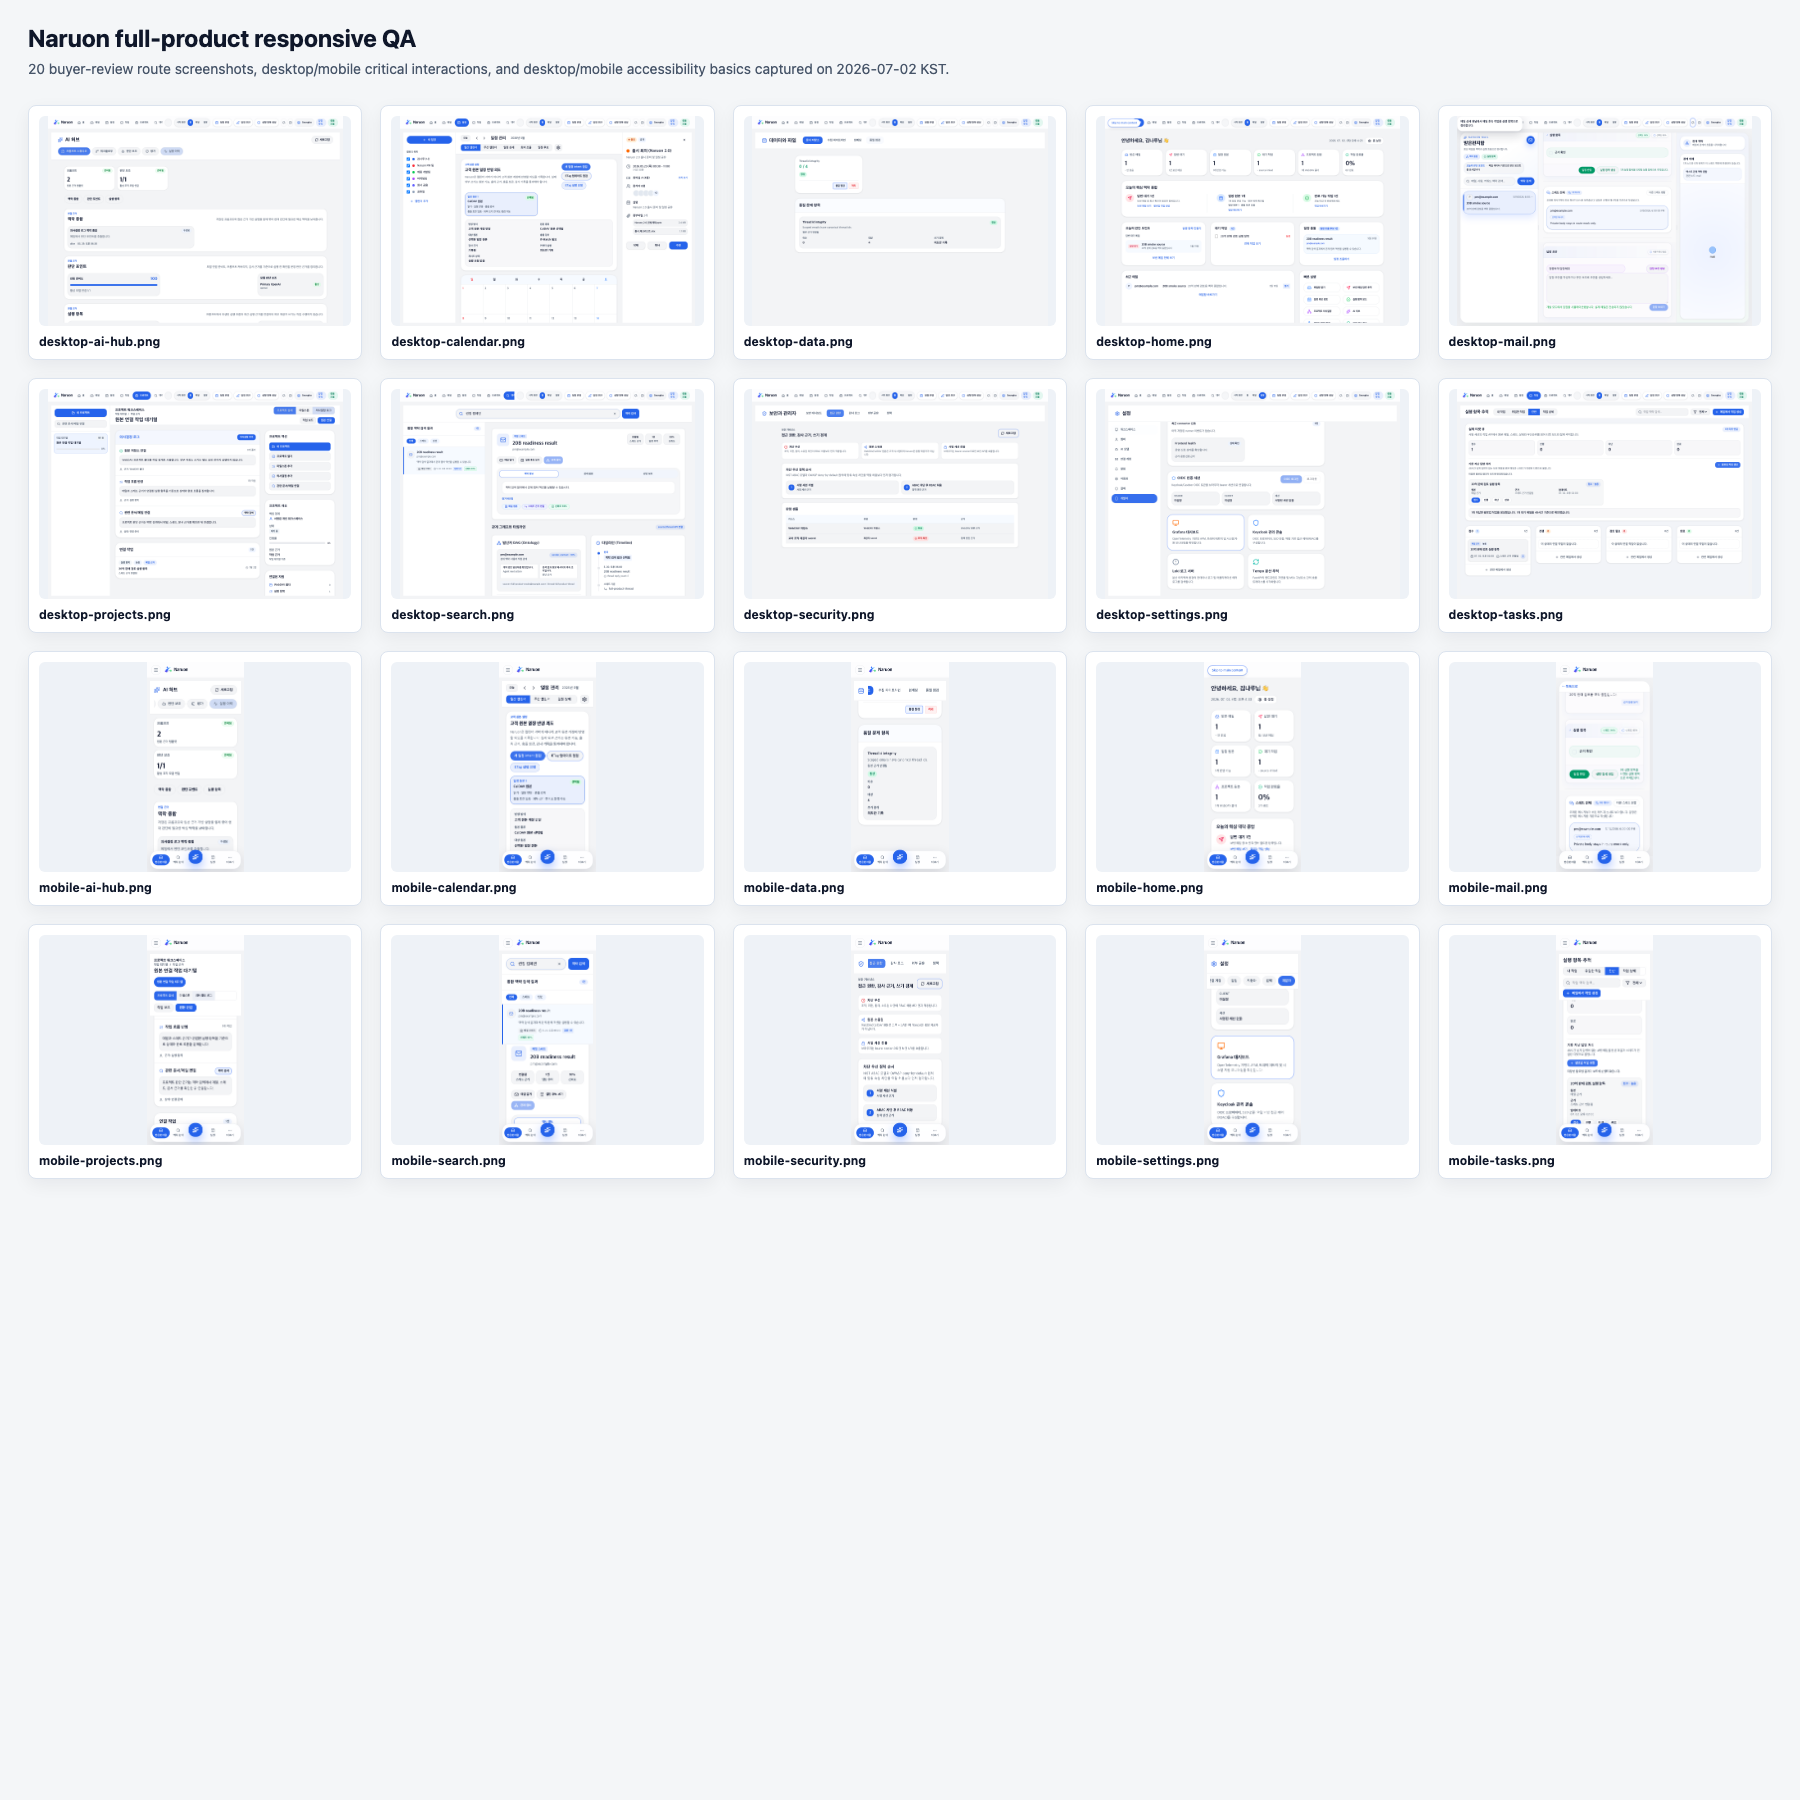
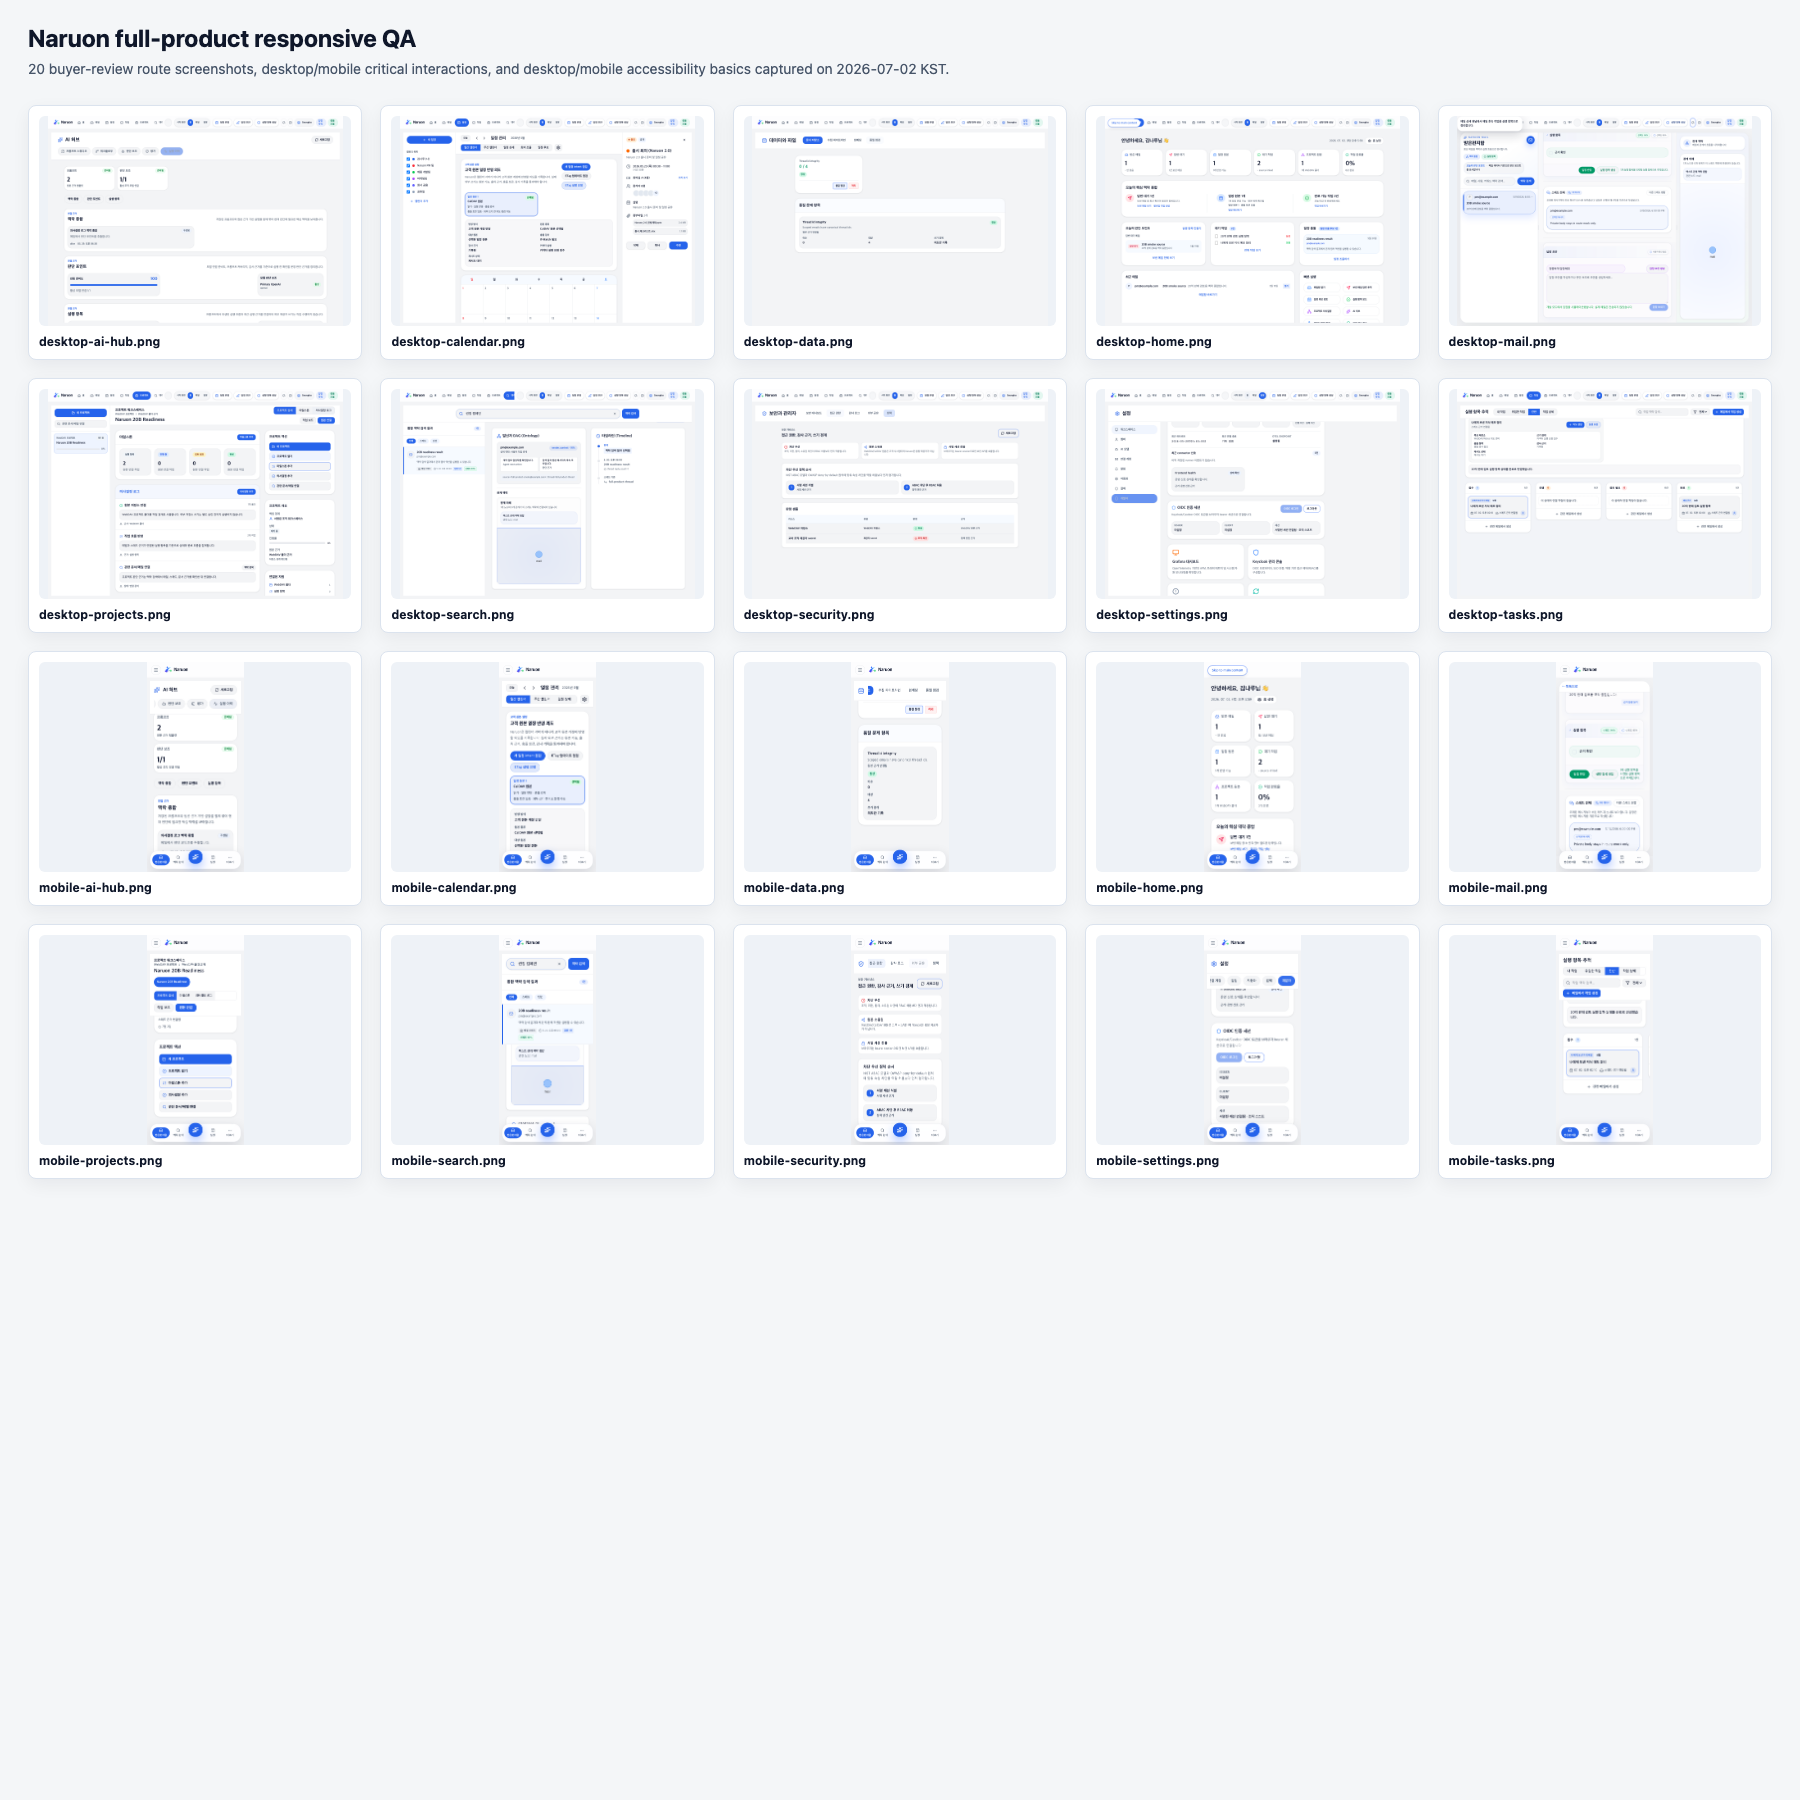
Expand workflow-state full product smoke

diff --git a/docs/superpowers/reports/2026-07-02-naruon-20b-responsive-product-design-qa.md b/docs/superpowers/reports/2026-07-02-naruon-20b-responsive-product-design-qa.md
@@ -41,7 +41,7 @@ Result:
 Naruon full-product route smoke passed.
 Routes: /, /mail, /search, /calendar, /tasks, /projects, /data, /ai-hub, /security, /settings
 Viewports: desktop(1440x1024), mobile(390x844)
-Critical interactions: desktop:mail:select-message, desktop:mail:open-source-drawer, desktop:mail:generate-reply-draft, desktop:mail:send-simulated-reply, desktop:mail:create-source-linked-task, desktop:search:select-result, desktop:search:capture-sender-relationship, desktop:calendar:create-writeback-intent, desktop:tasks:create-reply-sla-followup, desktop:projects:open-decision-log, desktop:data:create-embedding-regeneration-intent, desktop:data:open-quality-checks, desktop:ai-hub:open-run-history, desktop:security:open-sharing-review, desktop:security:open-policy-order, desktop:settings:switch-ai-model-tab, desktop:settings:select-calendar-startup-view, desktop:settings:rotate-connector-token, mobile:mail:select-message, mobile:mail:open-source-drawer, mobile:mail:generate-reply-draft, mobile:mail:send-simulated-reply, mobile:mail:create-source-linked-task, mobile:search:select-result, mobile:search:capture-sender-relationship, mobile:calendar:create-writeback-intent, mobile:tasks:create-reply-sla-followup, mobile:projects:open-decision-log, mobile:data:create-embedding-regeneration-intent, mobile:data:open-quality-checks, mobile:ai-hub:open-run-history, mobile:security:open-sharing-review, mobile:security:open-policy-order, mobile:settings:switch-ai-model-tab, mobile:settings:select-calendar-startup-view, mobile:settings:rotate-connector-token
+Critical interactions: desktop:mail:select-message, desktop:mail:open-source-drawer, desktop:mail:generate-reply-draft, desktop:mail:send-simulated-reply, desktop:mail:create-source-linked-task, desktop:search:select-result, desktop:search:open-source-evidence-tab, desktop:search:open-decision-assist-tab, desktop:search:capture-sender-relationship, desktop:search:verify-captured-relationship-state, desktop:calendar:create-writeback-intent, desktop:calendar:verify-etag-update-intent, desktop:calendar:request-provider-execution, desktop:calendar:verify-provider-retry-state, desktop:tasks:create-reply-sla-followup, desktop:tasks:complete-source-linked-task, desktop:tasks:create-knowledge-webdav-intent, desktop:tasks:request-knowledge-provider-execution, desktop:tasks:verify-knowledge-retry-state, desktop:projects:open-decision-log, desktop:projects:reopen-project-detail, desktop:projects:verify-source-boundary, desktop:data:create-embedding-regeneration-intent, desktop:data:create-hwp-conversion-intent, desktop:data:request-webdav-materialization, desktop:data:create-webdav-writeback-intent, desktop:data:create-unique-thread-intent, desktop:data:open-quality-checks, desktop:ai-hub:open-workflow-tab, desktop:ai-hub:open-evaluation-tab, desktop:ai-hub:open-run-history-from-evidence, desktop:ai-hub:open-run-history, desktop:security:open-sharing-review, desktop:security:verify-external-write-block, desktop:security:open-policy-order, desktop:security:verify-deny-sample, desktop:settings:switch-ai-model-tab, desktop:settings:save-embedding-model, desktop:settings:save-account-config, desktop:settings:select-calendar-startup-view, desktop:settings:rotate-connector-token, mobile:mail:select-message, mobile:mail:open-source-drawer, mobile:mail:generate-reply-draft, mobile:mail:send-simulated-reply, mobile:mail:create-source-linked-task, mobile:search:select-result, mobile:search:open-source-evidence-tab, mobile:search:open-decision-assist-tab, mobile:search:capture-sender-relationship, mobile:search:verify-captured-relationship-state, mobile:calendar:create-writeback-intent, mobile:calendar:verify-etag-update-intent, mobile:calendar:request-provider-execution, mobile:calendar:verify-provider-retry-state, mobile:tasks:create-reply-sla-followup, mobile:tasks:complete-source-linked-task, mobile:tasks:create-knowledge-webdav-intent, mobile:tasks:request-knowledge-provider-execution, mobile:tasks:verify-knowledge-retry-state, mobile:projects:open-decision-log, mobile:projects:reopen-project-detail, mobile:projects:verify-source-boundary, mobile:data:create-embedding-regeneration-intent, mobile:data:create-hwp-conversion-intent, mobile:data:request-webdav-materialization, mobile:data:create-webdav-writeback-intent, mobile:data:create-unique-thread-intent, mobile:data:open-quality-checks, mobile:ai-hub:open-workflow-tab, mobile:ai-hub:open-evaluation-tab, mobile:ai-hub:open-run-history-from-evidence, mobile:ai-hub:open-run-history, mobile:security:open-sharing-review, mobile:security:verify-external-write-block, mobile:security:open-policy-order, mobile:security:verify-deny-sample, mobile:settings:switch-ai-model-tab, mobile:settings:save-embedding-model, mobile:settings:save-account-config, mobile:settings:select-calendar-startup-view, mobile:settings:rotate-connector-token
 Accessibility checks: home:a11y-basics, mail:a11y-basics, search:a11y-basics, calendar:a11y-basics, tasks:a11y-basics, projects:a11y-basics, data:a11y-basics, ai-hub:a11y-basics, security:a11y-basics, settings:a11y-basics, home:a11y-basics, mail:a11y-basics, search:a11y-basics, calendar:a11y-basics, tasks:a11y-basics, projects:a11y-basics, data:a11y-basics, ai-hub:a11y-basics, security:a11y-basics, settings:a11y-basics
 ```
 
@@ -49,8 +49,8 @@ Figma placement result:
 
 ```text
 QA Notes board created and verified.
-Contact-sheet upload accepted with response imageHash 9796692ba73fc91175ed7ee4ac97519cd18be7b7.
-Figma node 18:7 verified with image fill hash 9796692ba73fc91175ed7ee4ac97519cd18be7b7 and FIT scale mode.
+Contact-sheet upload accepted with response imageHash e4162ee8c49646e320d48fff2eaf3b948006b0fa.
+Figma node 18:7 verified with image fill hash e4162ee8c49646e320d48fff2eaf3b948006b0fa and FIT scale mode.
 Verification screenshot confirmed the contact sheet and notes are visible inside board node 18:3.
 ```
 
@@ -85,12 +85,12 @@ All desktop screenshots were verified at `1440 x 1024`. All mobile screenshots w
 
 ## Findings
 
-1. Desktop route and broad selected interaction coverage is now stable enough for buyer technical review.
+1. Desktop route and expanded selected workflow-state coverage is now stable enough for buyer technical review.
    - Evidence: all ten IA routes render expected buyer-visible text and produce non-empty screenshots.
-   - Interaction evidence: mail source drawer opening, reply draft generation, simulated send, source task creation, search relationship capture, calendar writeback intent, task reply-SLA escalation, project decision log, data embedding intent and quality checks, AI Hub run history, security sharing/policy tabs, settings tab/startup selection, and connector token rotation all passed.
+   - Interaction evidence: mail source drawer, reply draft, simulated send, source task creation; search evidence/assist tabs and captured relationship state; calendar create/update/provider-execution request and retry state; task completion plus knowledge WebDAV intent and execution request; project decision/detail/source boundary; data embedding, HWP, WebDAV materialization, writeback, unique-thread, and quality checks; AI Hub workflow/evaluation/run history; security external-write block and deny sample; settings embedding save, account save, startup selection, and connector token rotation all passed.
    - Health: pass for route-level and selected interaction smoke.
 
-2. Mobile route and broad selected interaction coverage is now stable enough for buyer technical review.
+2. Mobile route and expanded selected workflow-state coverage is now stable enough for buyer technical review.
    - Evidence: all ten IA routes render expected buyer-visible text and produce mobile screenshots.
    - Interaction evidence: the same selected buyer-critical flows passed on the mobile viewport.
    - Health: pass for route-level and selected interaction smoke.
@@ -106,7 +106,7 @@ All desktop screenshots were verified at `1440 x 1024`. All mobile screenshots w
 
 5. The smoke gate still does not prove full workflow completion.
    - Evidence: the command now checks expected route text, console errors, not-found states, screenshot creation, broad selected desktop/mobile interactions across nine IA routes, and basic automated accessibility checks.
-   - Remaining gap: live provider send, writeback confirmation, graph expansion, permission edits, settings save persistence, and remaining route-specific drawer/modal states need workflow-specific assertions before final procurement readiness.
+   - Remaining gap: live provider send/write execution, post-provider delivery confirmation, true graph visualization expansion, permission edit/save flows, reload-backed settings persistence, and remaining route-specific drawer/modal variants need workflow-specific assertions before final procurement readiness.
 
 ## Accessibility Risks
 
@@ -116,18 +116,18 @@ All desktop screenshots were verified at `1440 x 1024`. All mobile screenshots w
 
 ## Product Design Assessment
 
-The current branch now has repeatable desktop and mobile visual evidence for the ten buyer-review IA routes, broad selected desktop/mobile critical-interaction smoke evidence across nine IA routes, mail workflow-state evidence through source drawer, draft generation, simulated send, and source-linked task creation, and basic automated accessibility evidence across desktop and mobile. This moves the package from route-existence evidence to responsive route-level evidence with partial workflow and accessibility proof, but it does not prove full sale readiness.
+The current branch now has repeatable desktop and mobile visual evidence for the ten buyer-review IA routes, expanded selected desktop/mobile workflow-state smoke evidence across nine IA routes, and basic automated accessibility evidence across desktop and mobile. This moves the package from route-existence evidence to responsive route-level evidence with materially broader workflow and accessibility proof, but it does not prove full sale readiness.
 
 The remaining Product Design P0/P1 work is:
 
 1. Expand interaction-state coverage from selected actions to complete workflow completion paths:
    - mail live provider send and delivery-state persistence
-   - search result source drawer and graph expansion
-   - calendar writeback confirmation states
-   - task completion
-   - project evidence opening
-   - data WebDAV materialization and document action result variants
-   - AI Hub run/log detail beyond tab navigation
+   - search graph visualization expansion beyond captured relationship state
+   - calendar provider write completion and conflict/result variants
+   - task assignment, delegation, and provider-backed completion variants
+   - project evidence opening and source attachment variants
+   - data provider-executed WebDAV materialization and document action failure variants
+   - AI Hub run/log detail beyond workflow, evaluation, and run-history navigation
    - security permission review
    - settings save persistence beyond connector rotation
 2. Expand accessibility evidence beyond the basic gate:

diff --git a/docs/superpowers/reports/2026-07-02-naruon-20b-current-state-audit.md b/docs/superpowers/reports/2026-07-02-naruon-20b-current-state-audit.md
@@ -219,7 +219,7 @@ Acceptable later extraction:
 P0 for 20B final sale readiness:
 
 - Figma required pages were repaired through `use_figma`, but full screen coverage and durable QA screenshots for every buyer flow are not complete.
-- Full ten-area Product Design route audit now has desktop/mobile evidence, broad selected desktop/mobile critical-interaction evidence across nine IA routes, mail workflow-state evidence through source drawer, draft generation, simulated send, and source-linked task creation, and basic automated accessibility evidence, but complete workflow-state and assistive-technology audit is not complete.
+- Full ten-area Product Design route audit now has desktop/mobile evidence, expanded selected desktop/mobile workflow-state evidence across nine IA routes, and basic automated accessibility evidence, but live provider completion, full result variants, and assistive-technology audit are not complete.
 - Production deployment and rollback evidence is not packaged.
 - Live provider-send and provider-write execution evidence is incomplete.
 - Issue #634 has a branch-level fix, but remains open as a governance risk until merged and proven on the trusted base branch.
@@ -228,11 +228,11 @@ P0 for 20B final sale readiness:
 
 P1 for buyer technical review:
 
-- Full-product smoke covers all ten IA routes on localhost, supports desktop/mobile capture through `NARUON_FULL_PRODUCT_VIEWPORTS=desktop,mobile`, and is wired into the branch CI workflow with desktop default. It now asserts selected desktop/mobile buyer interactions for mail, search, calendar, tasks, projects, data, AI Hub, security, and settings, including mail source drawer, reply draft generation, simulated send, source-linked task creation, and settings connector token rotation, plus basic accessibility checks for visible duplicate IDs, visible interactive accessible names, and keyboard Tab focus entry.
+- Full-product smoke covers all ten IA routes on localhost, supports desktop/mobile capture through `NARUON_FULL_PRODUCT_VIEWPORTS=desktop,mobile`, and is wired into the branch CI workflow with desktop default. It now asserts expanded selected desktop/mobile buyer workflow states for mail, search, calendar, tasks, projects, data, AI Hub, security, and settings, including provider-execution request/retry states, knowledge WebDAV intent, project source boundary, data WebDAV/unique-thread intents, AI Hub workflow/evaluation/run-history navigation, security deny samples, settings save actions, and connector token rotation, plus basic accessibility checks for visible duplicate IDs, visible interactive accessible names, and keyboard Tab focus entry.
 - Mobile Settings startup-view cards were fixed from a 3-column mobile grid to `grid-cols-1 sm:grid-cols-3` after responsive QA found awkward Korean label wrapping.
 - Product events do not yet cover full-product funnels beyond mail/search.
 - External analytics destination, retention, and consent are not approved.
-- Figma `Sales Demo` has current evidence and `QA Notes` now contains the desktop/mobile contact sheet with broad selected desktop/mobile interaction-state, mail workflow-state, and basic accessibility evidence; complete workflow-state and assistive-technology evidence remains incomplete.
+- Figma `Sales Demo` has current evidence and `QA Notes` now contains the desktop/mobile contact sheet with expanded selected desktop/mobile workflow-state and basic accessibility evidence; live provider completion and assistive-technology evidence remain incomplete.
 
 Non-blockers:
 
